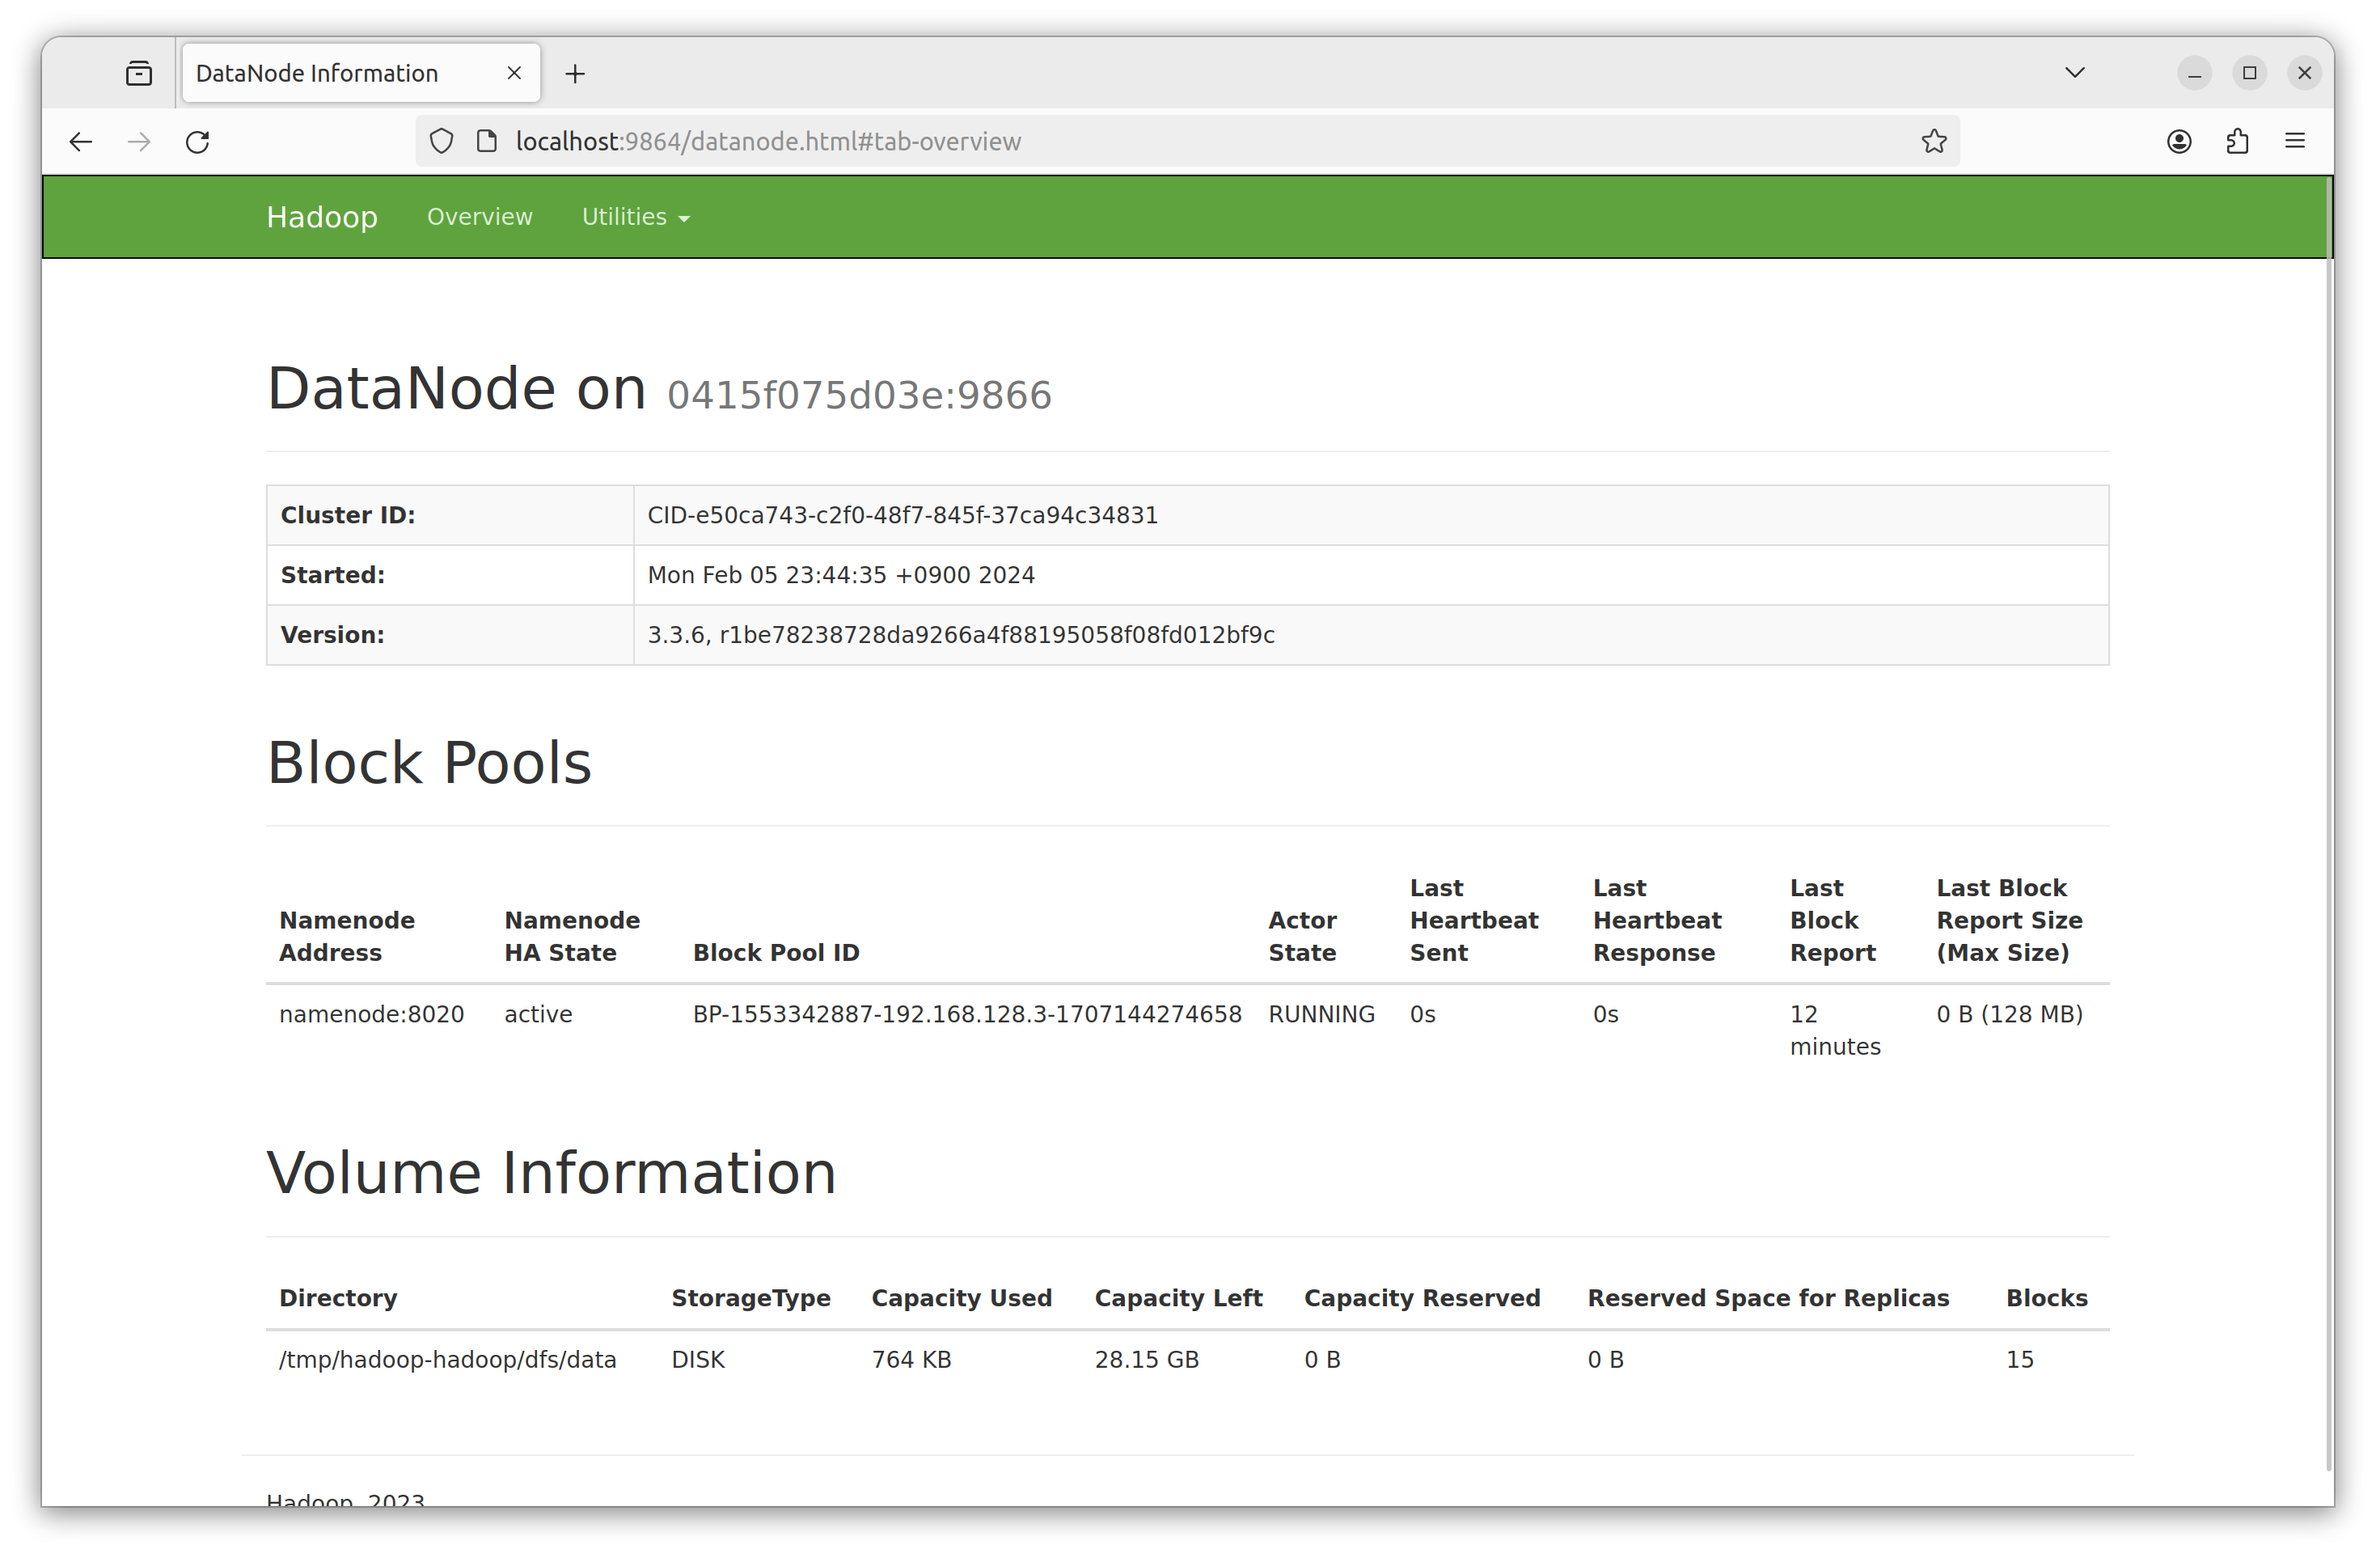
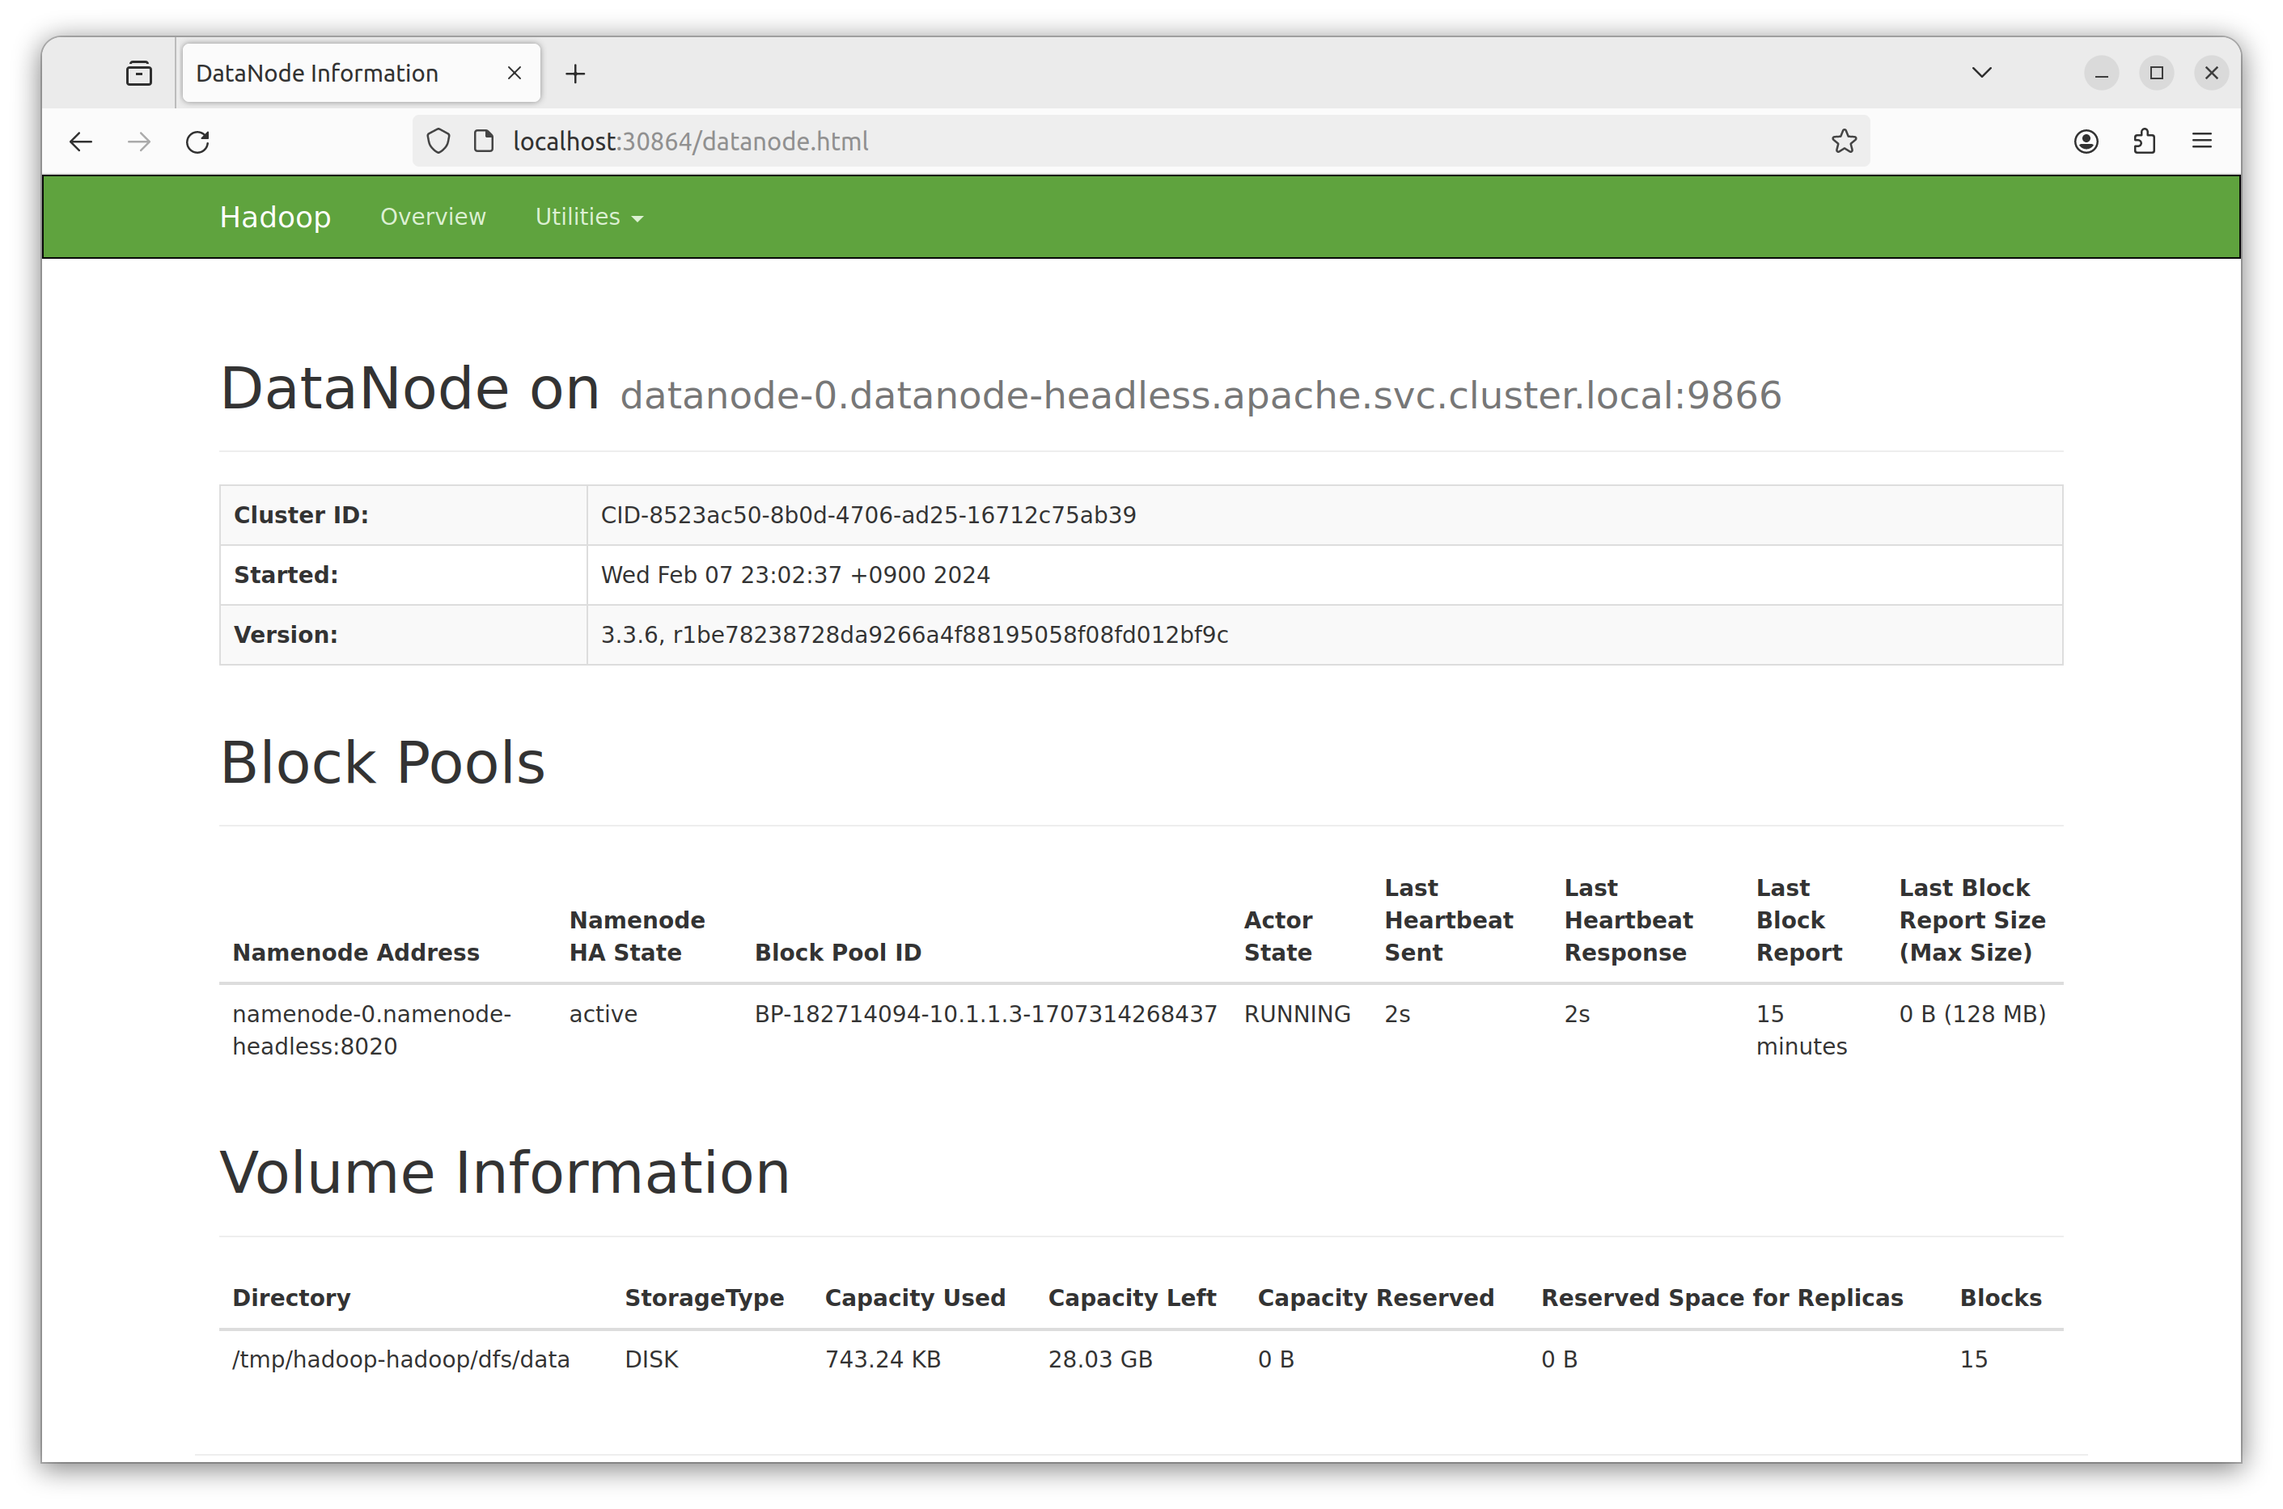
statefulset and headless service

diff --git a/docs/hadoop.md b/docs/hadoop.md
@@ -65,10 +65,23 @@ docker compose up -d
 
 ### Test a MapReduce job
 
+#### Check Resources
+
+```bash
+kubectl get sts -n apache
+
+NAME              READY
+datanode          1/1
+jobhistory        1/1
+namenode          1/1
+nodemanager       1/1
+resourcemanager   1/1
+```
+
 #### Attach to Namenode
 
 ```bash
-kubectl exec --stdin --tty deploy/namenode -n apache -- /bin/bash
+kubectl exec --stdin --tty sts/namenode -n apache -- /bin/bash
 docker compose exec namenode bash
 ```
 
